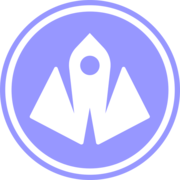
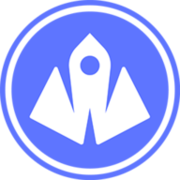
update branding

diff --git a/index.html b/index.html
@@ -20,7 +20,7 @@
   <link rel="shortcut icon" href="/_images/favicon.ico">
   <style>
     html {
-      --theme-color: #9797ff;
+      --theme-color: #5e75ff;
     }
   </style>
   <link rel="stylesheet" href="//unpkg.com/docsify/lib/themes/vue.css" />
@@ -33,7 +33,7 @@
     window.$docsify = {
       name: 'WP Emerge',
       repo: 'https://github.com/htmlburger/wpemerge-docs',
-      logo: '/_images/logo.png',
+      logo: '/_images/wpemerge-logo.png',
       ga: 'UA-115991844-1',
       notFoundPage: true,
       loadSidebar: true,

diff --git a/404.html b/404.html
@@ -20,7 +20,7 @@
   <link rel="shortcut icon" href="/_images/favicon.ico">
   <style>
     html {
-      --theme-color: #9797ff;
+      --theme-color: #5e75ff;
     }
   </style>
   <link rel="stylesheet" href="//unpkg.com/docsify/lib/themes/vue.css" />

diff --git a/framework/overview.md b/framework/overview.md
@@ -1,4 +1,4 @@
-# [![WPEmerge.com](../_images/logo-bar.png ':size=autox60')](http://wpemerge.com)
+# [![WPEmerge.com](../_images/wpemerge-logo-bar.png ':size=autox61')](http://wpemerge.com)
 
 [![Packagist](https://img.shields.io/packagist/vpre/htmlburger/wpemerge.svg?style=flat-square&colorB=0366d6)](https://packagist.org/packages/htmlburger/wpemerge) [![Travis branch](https://img.shields.io/travis/htmlburger/wpemerge/master.svg?style=flat-square)](https://travis-ci.org/htmlburger/wpemerge/builds) [![Scrutinizer](https://img.shields.io/scrutinizer/g/htmlburger/wpemerge.svg?style=flat-square)](https://scrutinizer-ci.com/g/htmlburger/wpemerge/) [![Scrutinizer Coverage](https://img.shields.io/scrutinizer/coverage/g/htmlburger/wpemerge.svg?style=flat-square)](https://scrutinizer-ci.com/g/htmlburger/wpemerge/code-structure/master/code-coverage) [![Gitter](https://img.shields.io/gitter/room/nwjs/nw.js.svg?style=flat-square&colorB=7d07d1)](https://gitter.im/wpemerge/Lobby)
 

diff --git a/starter-theme/overview.md b/starter-theme/overview.md
@@ -1,4 +1,4 @@
-# [![WPEmerge.com](../_images/starter-theme-logo-bar.png ':size=autox60')](http://wpemerge.com)
+# [![WPEmerge.com](../_images/wpemerge-theme-logo-bar.png ':size=autox61')](http://wpemerge.com)
 
 
 [![Packagist](https://img.shields.io/packagist/vpre/htmlburger/wpemerge-theme.svg?style=flat-square&colorB=0366d6)](https://packagist.org/packages/htmlburger/wpemerge-theme) [![Travis branch](https://img.shields.io/travis/htmlburger/wpemerge-theme/master.svg?style=flat-square)](https://travis-ci.org/htmlburger/wpemerge-theme/builds) [![Gitter](https://img.shields.io/gitter/room/nwjs/nw.js.svg?style=flat-square&colorB=7d07d1)](https://gitter.im/wpemerge/Lobby)

diff --git a/README.md b/README.md
@@ -1,5 +1,5 @@
 <div class="cover-logo-bar">
-    ![WPEmerge.com](_images/logo-bar.png)
+    ![WPEmerge.com](_images/wpemerge-logo-bar.png)
 </div>
 
 <div class="cover-buttons">
